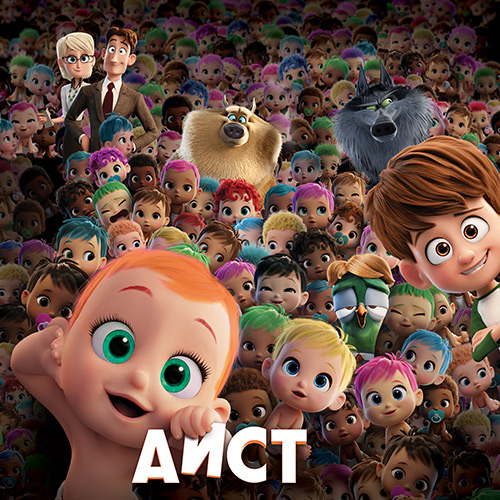
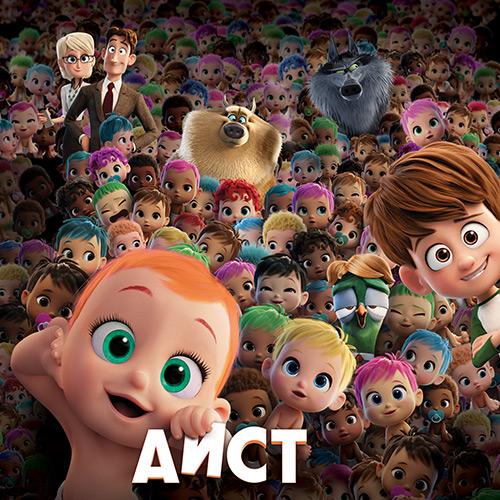
game fading added

Changed region(s): [[0.6, 0.06, 1.0, 0.75]]

diff --git a/src/sass/main.scss b/src/sass/main.scss
@@ -800,8 +800,116 @@
 	
 	&__image{
 		display: block;
-		width: 100%;
-		height: auto;
+		width: 500px;
+		height: 500px;
+	}
+
+	&__answer{
+		position: absolute;
+		
+		//opacity: .7;
+		
+		opacity: 0;
+		//visibility: hidden;
+		//opacity: 1;
+
+		transition: all .4s;
+
+		&--letter{
+			bottom: 9px;
+			right: 125px;
+
+			background: url(../images/game/answers/letter.jpg) 50% 0 no-repeat;
+			width: image-width('../assets/images/game/answers/letter.jpg');
+			height: image-height('../assets/images/game/answers/letter.jpg');
+		}
+
+		&--stork-mother{
+			top: 21px;
+			right: 76px;
+
+			background: url(../images/game/answers/stork-mother.jpg) 50% 0 no-repeat;
+			width: image-width('../assets/images/game/answers/stork-mother.jpg');
+			height: image-height('../assets/images/game/answers/stork-mother.jpg');
+		}
+
+		&--hair{
+			bottom: 79px;
+			left: 55px;
+
+			background: url(../images/game/answers/heir.jpg) 50% 0 no-repeat;
+			width: image-width('../assets/images/game/answers/heir.jpg');
+			height: image-height('../assets/images/game/answers/heir.jpg');
+		}
+
+		&--yes{
+			bottom: 93px;
+			left: 83px;
+
+			background: url(../images/game/answers/yes.jpg) 50% 0 no-repeat;
+			width: image-width('../assets/images/game/answers/yes.jpg');
+			height: image-height('../assets/images/game/answers/yes.jpg');
+		}
+
+		&--china{
+			bottom: 83px;
+			right: 76px;
+
+			background: url(../images/game/answers/china.jpg) 50% 0 no-repeat;
+			width: image-width('../assets/images/game/answers/china.jpg');
+			height: image-height('../assets/images/game/answers/china.jpg');
+		}
+
+		&--green-bird{
+			bottom: 134px;
+			right: 101px;
+
+			background: url(../images/game/answers/green-bird.jpg) 50% 0 no-repeat;
+			width: image-width('../assets/images/game/answers/green-bird.jpg');
+			height: image-height('../assets/images/game/answers/green-bird.jpg');
+		}
+
+
+		&--parents{
+			top: 0px;
+			left: 0px;
+
+			background: url(../images/game/answers/parents.jpg) 50% 0 no-repeat;
+			width: image-width('../assets/images/game/answers/parents.jpg');
+			height: image-height('../assets/images/game/answers/parents.jpg');
+		}
+
+		&--wolf-1{
+			top: 90px;
+			left: 163px;
+
+			background: url(../images/game/answers/wolf-1.jpg) 50% 0 no-repeat;
+			width: image-width('../assets/images/game/answers/wolf-1.jpg');
+			height: image-height('../assets/images/game/answers/wolf-1.jpg');
+		}
+
+		&--wolf-2{
+			top: 0px;
+			right: 97px;
+
+			background: url(../images/game/answers/wolf-2.jpg) 50% 0 no-repeat;
+			width: image-width('../assets/images/game/answers/wolf-2.jpg');
+			height: image-height('../assets/images/game/answers/wolf-2.jpg');
+		}
+
+		&--boy{
+			top: 139px;
+			right: 0px;
+
+			background: url(../images/game/answers/boy.jpg) 50% 0 no-repeat;
+			width: image-width('../assets/images/game/answers/boy.jpg');
+			height: image-height('../assets/images/game/answers/boy.jpg');
+		}
+
+		&--visible{
+			opacity: 1;
+			visibility: visible;
+		}
 	}
 
 	&__button{
@@ -829,7 +937,7 @@
 		path{
 			fill: transparent;
 			cursor: pointer;
-			//fill: rgba(0,0,0,.5);
+			//fill: rgba(0,0,0,.9);
 		}
 
 		path:hover{

diff --git a/src/js/components/pages/kids/Game.js b/src/js/components/pages/kids/Game.js
@@ -63,7 +63,7 @@ const paths = {
 		},
 		{
 			id: 'wolf-2',
-			path: 'M370.000,186.000 L349.000,167.000 L337.000,142.000 L336.000,123.000 L342.000,108.000 L355.000,93.000 L362.000,74.000 L375.000,87.000 L381.000,69.000 L396.000,87.000 L416.000,88.000 L431.000,96.000 L438.000,116.000 L435.000,129.000 L432.000,138.000 L370.000,186.000 Z',
+			path: 'M346.000,135.000 L330.000,120.000 L311.000,102.000 L303.000,87.000 L309.000,72.000 L322.000,57.000 L329.000,38.000 L342.000,51.000 L348.000,33.000 L363.000,51.000 L383.000,52.000 L389.000,63.000 L391.000,79.000 L387.000,100.000 L372.000,122.000 L346.000,135.000 Z',
 		},
 		{
 			id: 'boy',
@@ -89,7 +89,22 @@ const paths = {
 }
 
 											
-											
+const answers = {
+	left: [
+		'stork-mother',
+		'china',
+		'green-bird',
+	],
+	right: [
+		'parents',
+		'wolf-1',
+		'boy',
+		'wolf-2',
+		'letter',
+		'hair',
+		'yes',
+	],
+};											
 											
 											
 											
@@ -314,7 +329,18 @@ class Game extends React.Component {
 
 									<div className="game-image">
 
-										<img src={(PromoOptions.cdn + 'images/game/1-1.jpg')} className="game-image__image" alt="" />
+										<img src={(PromoOptions.cdn + 'images/game/1-1.jpg?3')} className="game-image__image" alt="" width="500" height="500" />
+
+										{answers.left.map( (answer, i) => (
+
+											<div 
+												key={'answer-right' + i}
+												className={'game-image__answer game-image__answer--' + answer
+													+ (state.founded.indexOf(answer) > -1 ? ' game-image__answer--visible' : '')
+												}>
+											</div>
+
+										))}
 
 										<svg 
 											className="game-image__svg"
@@ -350,7 +376,18 @@ class Game extends React.Component {
 
 									<div className="game-image">
 
-										<img src={(PromoOptions.cdn + 'images/game/1-2.jpg')} className="game-image__image" alt="" />
+										<img src={(PromoOptions.cdn + 'images/game/1-2.jpg?3')} className="game-image__image" alt="" width="500" height="500" />
+
+										{answers.right.map( (answer, i) => (
+
+											<div 
+												key={'answer-right' + i}
+												className={'game-image__answer game-image__answer--' + answer
+													+ (state.founded.indexOf(answer) > -1 ? ' game-image__answer--visible' : '')
+												}>
+											</div>
+
+										))}
 
 										<svg 
 											className="game-image__svg"

diff --git a/src/js/settings/settings-dnevnik.js b/src/js/settings/settings-dnevnik.js
@@ -1,9 +1,9 @@
 export const OAuthOptions = {
-	provider: 'app',
+	provider: 'storksDnevnik',
 	authUrl: 'https://login.dnevnik.ru/oauth2',
 	grantUrl: 'https://api.dnevnik.ru/v1/authorizations',
-	scope: 'Avatar,FullName,Birthday,Age,Roles,Schools,Organizations,EduGroups,Lessons,Marks,EduWorks,Relatives,Files,Contacts,Friends,Groups,Networks,Events,Wall,Messages,EmailAddress,Sex,SocialEntityMembership',	
-	clientId: 'f84accc763e34b5b83469c9ef1a9ea62',
+	scope: 'Avatar,FullName,Roles,Friends,Wall,Messages',	
+	clientId: '112b540bc66c4ad7af49edb09f20bdbf',
 	redirectUrl: 'https://ad.dnevnik.ru/promo/oauth2',
 }
 
@@ -12,13 +12,13 @@ export const APIoptions = {
 }
 
 export const PromoOptions = {	
-	url: 'https://ad.dnenvik.ru/promo/storks-demo',
+	url: 'https://ad.dnevnik.ru/promo/storks',
 	server: 'https://dnevnik.ru',
 	cdn: 'https://ad.csdnevnik.ru/special/staging/storks-demo/',
 }
 
 export const CommentsOptions = {	
-	pageSize: 5,
+	pageSize: 15,
 	adminId: [
 		'1000005031742'
 	],

diff --git a/src/js/components/pages/kids/Top.js b/src/js/components/pages/kids/Top.js
@@ -5,7 +5,7 @@ import AppLogo from '../../../components/common/AppLogo';
 import Link from '../../../components/common/Link';
 import Button from '../../../components/common/Button';
 
-//import * as asyncActions from '../../actions/async';
+import * as asyncActions from '../../../actions/async';
 import * as pageActions from '../../../actions/page';
 
 class Only extends React.Component {
@@ -13,6 +13,7 @@ class Only extends React.Component {
 	componentWillMount(){
 		const { props } = this;
 
+		props.getAllResults();
 	}
 
 	render(){
@@ -107,6 +108,7 @@ const mapStateToProps = (state, ownProps) => ({
 });
 
 const mapDispatchToProps = (dispatch, ownProps) => ({
+	getAllResults: () => dispatch(asyncActions.getAllResults()),
 	redirect: (page) => dispatch(pageActions.setPageWithoutHistory(page)),
 	goTo: (page) => dispatch(pageActions.setPage(page)),
 });

diff --git a/src/js/actions/async.js b/src/js/actions/async.js
@@ -203,6 +203,38 @@ export function getUserResults() {
 }
 
 
+export function getAllResults() {
+	return (dispatch, getState) => {
+
+		dispatch(loadingActions.loadingShow());	
+
+		return API.getKeysFromDB('results', 1, 1000)
+		.then( results => {
+			dispatch(loadingActions.loadingHide());
+			
+			console.log(results);
+
+			// try{
+			// 	const data = JSON.parse(HTMLdecode(results.Value));	
+
+			// 	console.log(data);
+
+			// 	dispatch(resultsActions.setAllData(data));
+			// }catch(e){
+			// 	console.log(e);
+			// }
+
+		})
+		.catch( err => { 
+			dispatch(loadingActions.loadingHide());
+
+			dispatch(catchError(err)); 
+		});
+
+	}
+}
+
+
 export function setQuizData(data) {
 	return (dispatch) => {
 

diff --git a/src/js/components/pages/kids/Kids.js b/src/js/components/pages/kids/Kids.js
@@ -31,7 +31,7 @@ class Kids extends React.Component {
 
 						<TimeCounter />
 
-						<li className="counters__item">
+						{/*<li className="counters__item">
 
 							<div className="counters__content">
 
@@ -45,7 +45,7 @@ class Kids extends React.Component {
 
 							</div>
 
-						</li>
+						</li>*/}
 
 					</ul>
 
